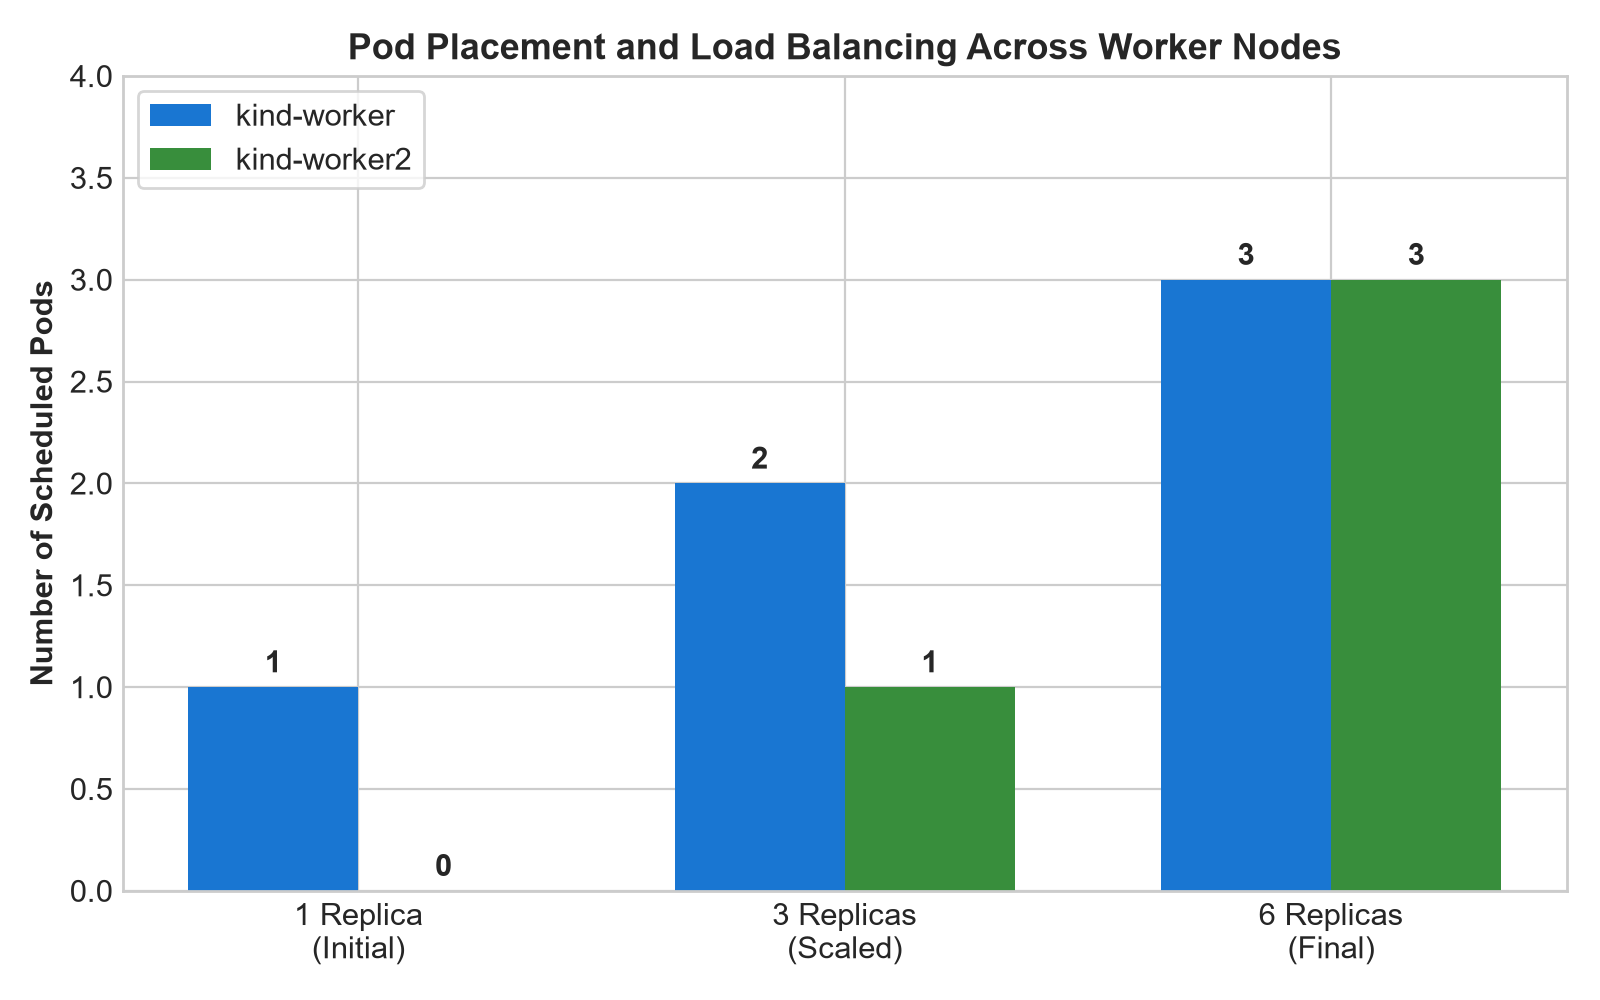
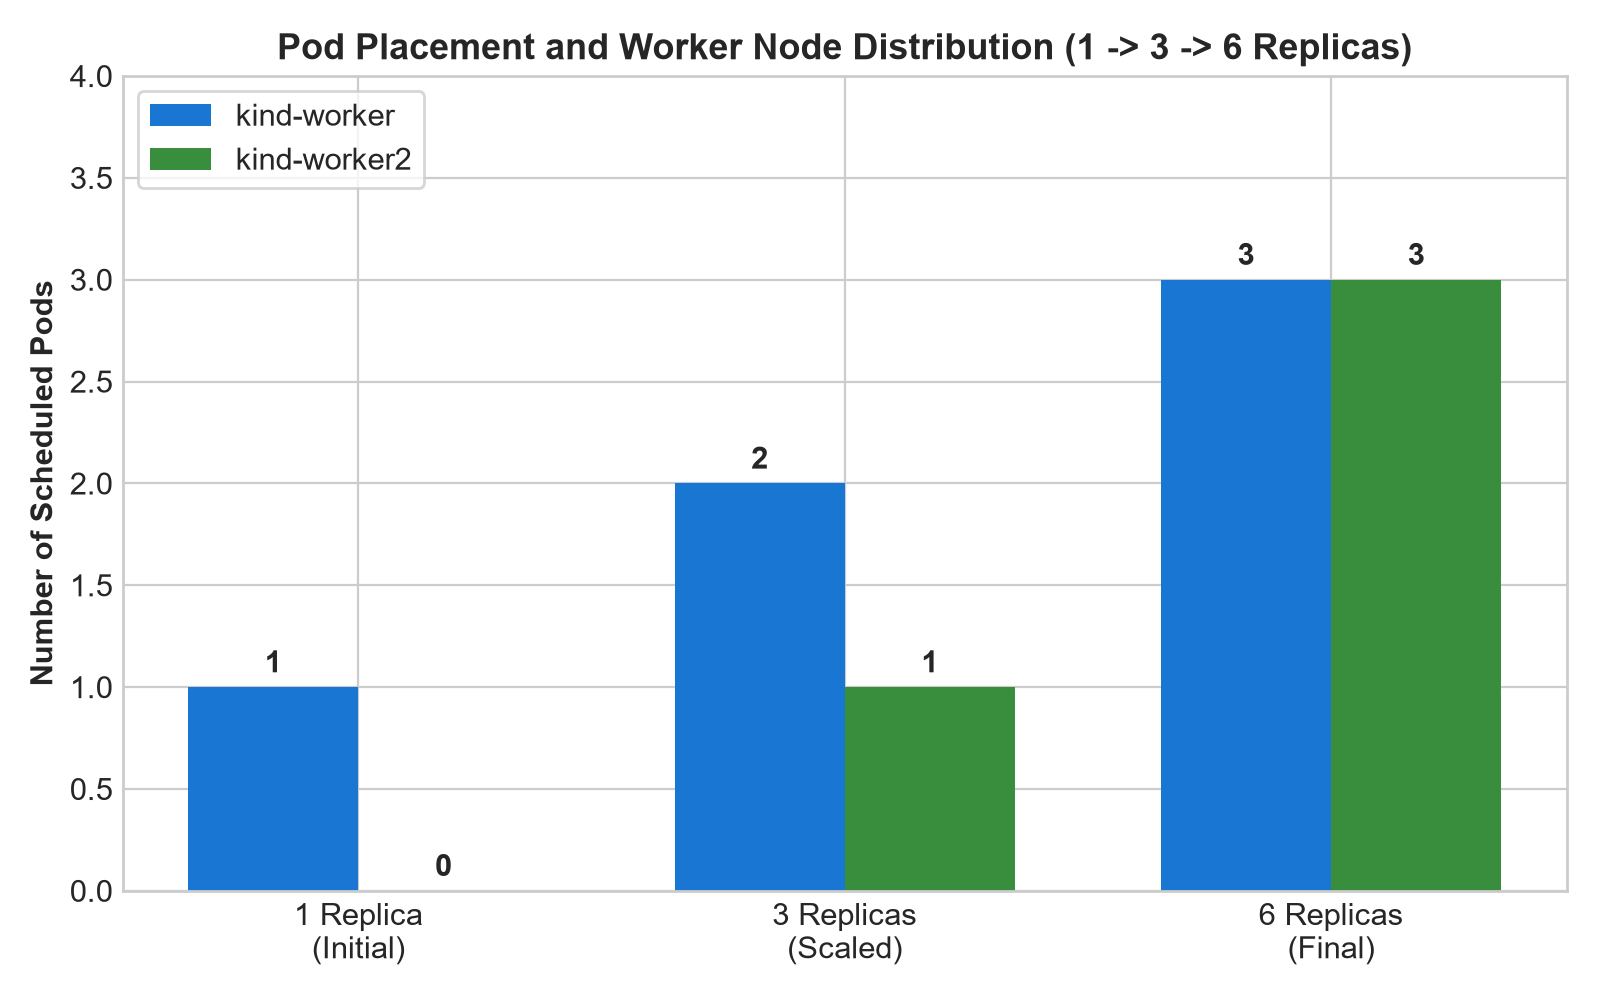
Clarify Exp 3 graph title to Worker Node Distribution

Changed region(s): [[0.1562, 0.031, 0.875, 0.062]]

diff --git a/CC_Experiment_3/scripts/generate_graphs.py b/CC_Experiment_3/scripts/generate_graphs.py
@@ -54,7 +54,7 @@ rects1 = ax.bar(x - width/2, worker1_pods, width, label='kind-worker', color='#1
 rects2 = ax.bar(x + width/2, worker2_pods, width, label='kind-worker2', color='#388e3c')
 
 ax.set_ylabel('Number of Scheduled Pods', fontweight='bold')
-ax.set_title('Pod Placement and Load Balancing Across Worker Nodes', fontweight='bold', fontsize=13)
+ax.set_title('Pod Placement and Worker Node Distribution (1 -> 3 -> 6 Replicas)', fontweight='bold', fontsize=13)
 ax.set_xticks(x)
 ax.set_xticklabels(stages)
 ax.legend(loc='upper left', frameon=True)
